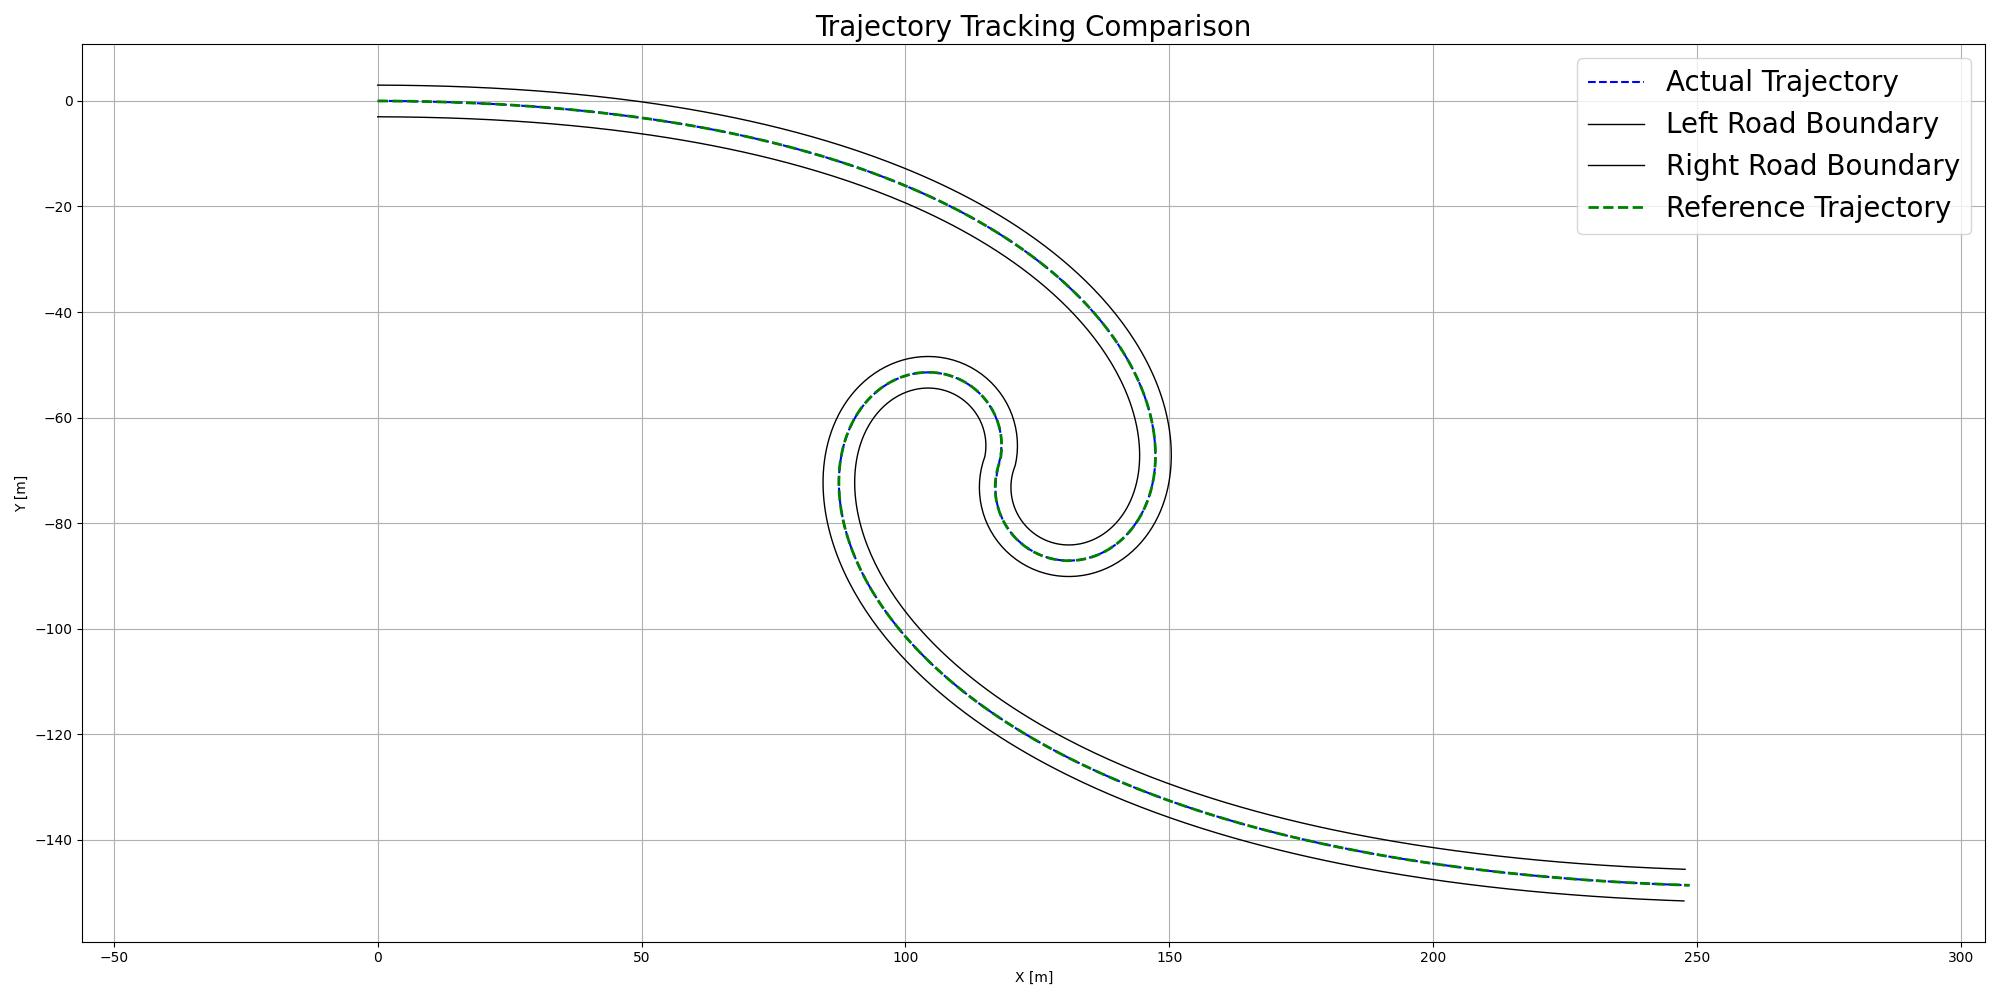
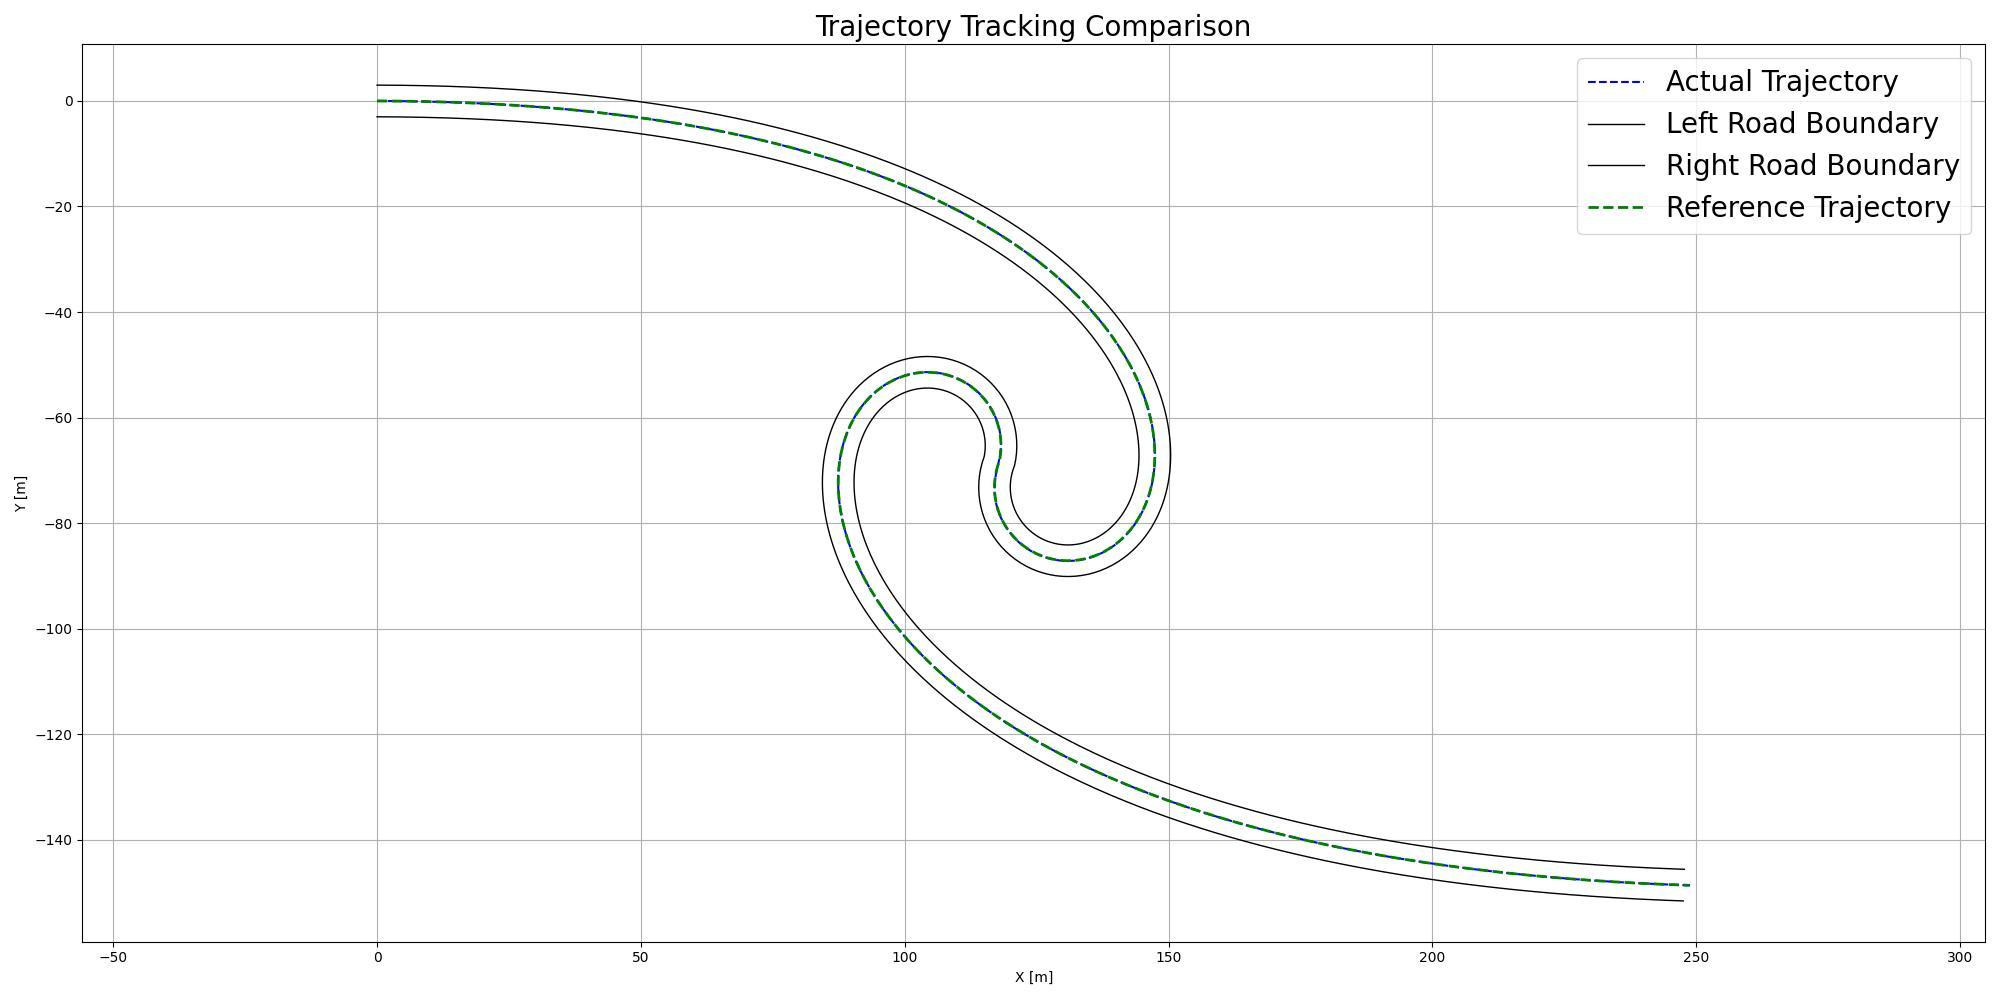
Add files via upload

diff --git a/NMPC_TrajTrackingAndObstacleAvoidance_CasADi.py b/NMPC_TrajTrackingAndObstacleAvoidance_CasADi.py
@@ -327,8 +327,8 @@ if __name__ == "__main__":
 
     opti.solver('ipopt', opts_setting)
 
-    current_state = global_trajectory[0] # initial vehicle state
-    current_state[3] = 0.1 # initial velocity
+    current_state = global_trajectory[0].copy() # initial vehicle state
+    current_state[3] = 0.0 # initial velocity
     opt_controls0 = np.zeros((N, 2))  # initial optimized actions guess
     delta_controls0 = np.zeros((N, 2))  # initial action change guess
     init_trajectories, nearest_idx, min_distance = planner.get_local_trajectory(
@@ -454,7 +454,7 @@ if __name__ == "__main__":
     plt.title('Trajectory Tracking Comparison', fontsize=20)
     plt.legend(fontsize=20)
     plt.tight_layout()
-    plt.savefig('tt1.jpg')
+    plt.savefig('tthc1.jpg')
 
     time_axis = np.arange(len(X_h)) * Ts
 
@@ -548,6 +548,6 @@ if __name__ == "__main__":
     plt.title('Cross Track Error During Tracking', fontsize=20)
     plt.xlabel('Time [s]', fontsize=20)
     plt.ylabel('Distance Error (m)', fontsize=20)
-    plt.savefig('tt2.jpg')
+    plt.savefig('tthc2.jpg')
 
     plt.show()

diff --git a/NMPC_TrajTrackingAndSoftObstacleAvoidance_CasADi.py b/NMPC_TrajTrackingAndSoftObstacleAvoidance_CasADi.py
@@ -330,8 +330,8 @@ if __name__ == "__main__":
 
     opti.solver('ipopt', opts_setting)
 
-    current_state = global_trajectory[0] # initial vehicle state
-    current_state[3] = 0.1 # initial velocity
+    current_state = global_trajectory[0].copy() # initial vehicle state
+    current_state[3] = 0.0 # initial velocity
     opt_controls0 = np.zeros((N, 2))  # initial optimized actions guess
     delta_controls0 = np.zeros((N, 2))  # initial action change guess
     init_trajectories, nearest_idx, min_distance = planner.get_local_trajectory(
@@ -457,7 +457,7 @@ if __name__ == "__main__":
     plt.title('Trajectory Tracking Comparison', fontsize=20)
     plt.legend(fontsize=20)
     plt.tight_layout()
-    plt.savefig('tt1.jpg')
+    plt.savefig('ttsc1.jpg')
 
     time_axis = np.arange(len(X_h)) * Ts
 
@@ -551,6 +551,6 @@ if __name__ == "__main__":
     plt.title('Cross Track Error During Tracking', fontsize=20)
     plt.xlabel('Time [s]', fontsize=20)
     plt.ylabel('Distance Error (m)', fontsize=20)
-    plt.savefig('tt2.jpg')
+    plt.savefig('ttsc2.jpg')
 
     plt.show()

diff --git a/NMPC_TrajTracking_CasADi.py b/NMPC_TrajTracking_CasADi.py
@@ -310,12 +310,14 @@ if __name__ == "__main__":
 
     opti.solver('ipopt', opts_setting)
 
-    current_state = global_trajectory[0] # initial vehicle state
-    current_state[3]=0.1 # initial velocity
+    current_state = global_trajectory[0].copy() # initial vehicle state, must use copy() to not modify global trajectory in case that current_state is modified
+    current_state[3]=0.0 # initial velocity
+    print(global_trajectory[0])
     opt_controls0 = np.zeros((N, 2))  # initial optimized actions guess
     delta_controls0 = np.zeros((N, 2))  # initial action change guess
     init_trajectories, nearest_idx, min_distance = planner.get_local_trajectory(
         current_state)  # set the initial trajectories for the vehicle
+    print(init_trajectories)
     init_states = np.tile(current_state, N + 1).reshape(N + 1, -1) # set the initial states for the vehicle
     init_error = np.zeros(5) # set the states need to be optimized for the vehicle
     init_error[0] = (init_trajectories[0, 1] - current_state[1]) * np.cos(init_trajectories[0, 2]) - (

diff --git a/NMPC_TrajTracking_CasADi1.py b/NMPC_TrajTracking_CasADi1.py
@@ -313,8 +313,8 @@ if __name__ == "__main__":
 
     opti.solver('ipopt', opts_setting)
 
-    current_state = global_trajectory[0] # initial vehicle state
-    current_state[3]=0.1 # initial velocity
+    current_state = global_trajectory[0].copy() # initial vehicle state
+    current_state[3]=0.0 # initial velocity
     opt_controls0 = np.zeros((N, 2))  # initial optimized actions guess
     init_trajectories, nearest_idx, min_distance = planner.get_local_trajectory(
         current_state)  # set the initial trajectories for the vehicle
